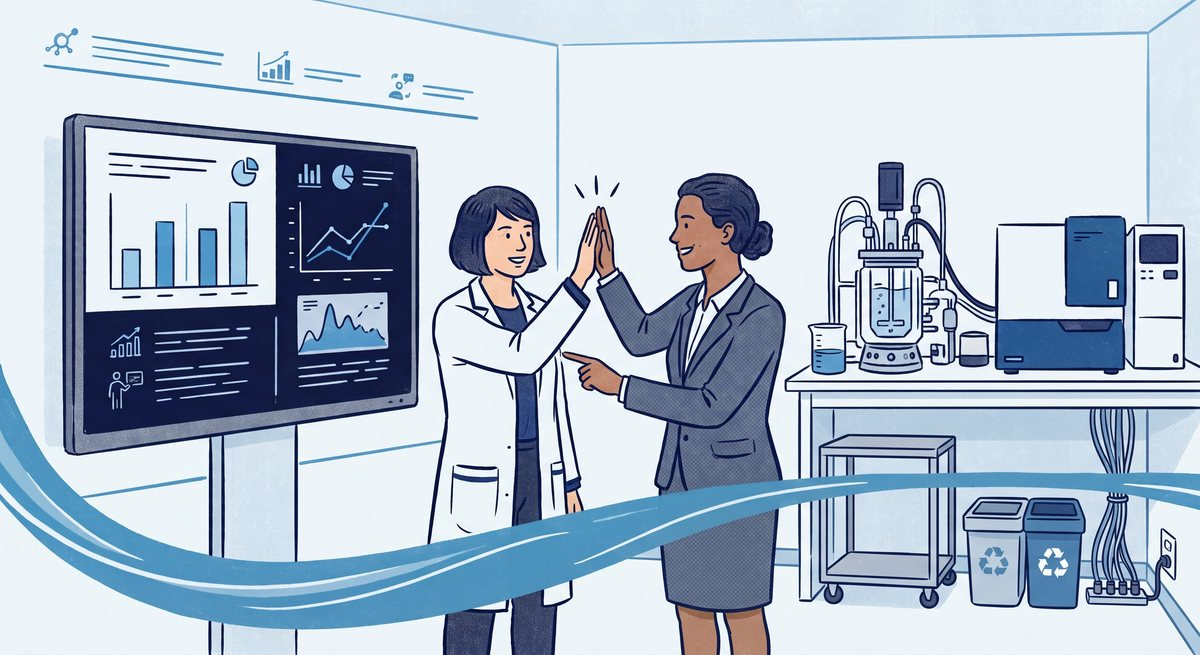
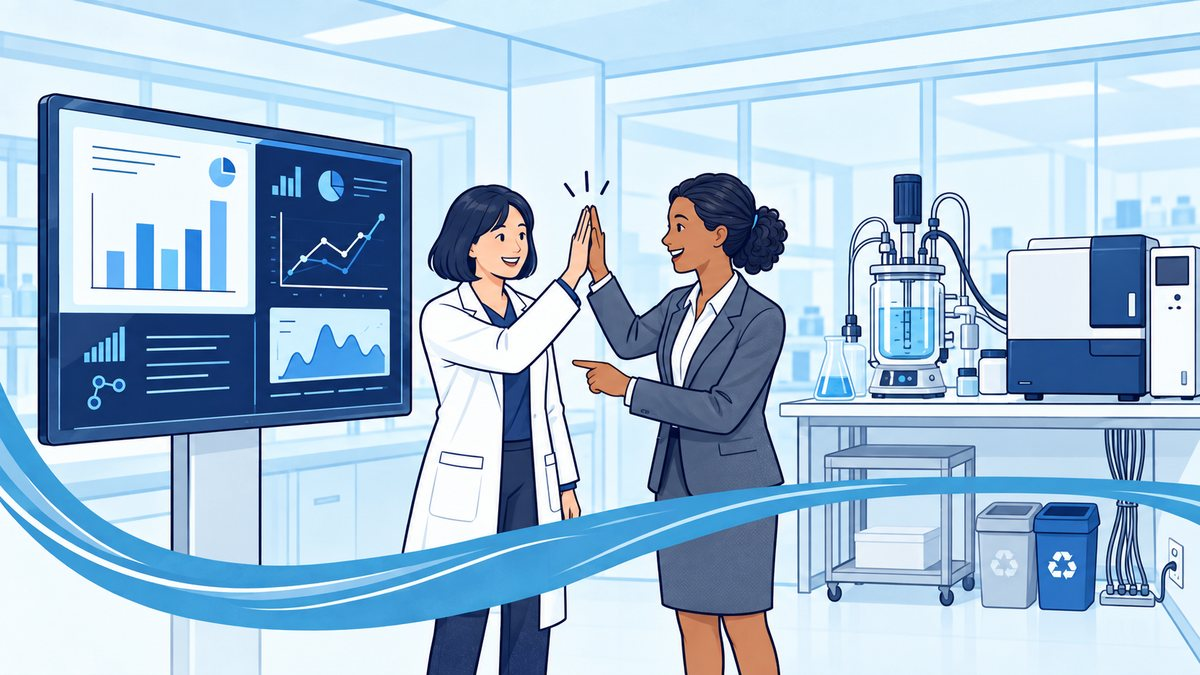
Update the "How to scope" illustration to the refreshed version
- New 1672 / 1200 px copies (228 KB / 142 KB) replace the previous art on
  the post hero, Blog featured card, og:image and Article schema image
- Featured card art now 16:9 to match; old 2000 px file removed

Claude-Session: https://claude.ai/code/session_01XBGKqKWyLuQfRuqXCo1Qr7

diff --git a/blog-how-to-scope-in-vivo-efficacy-study.html b/blog-how-to-scope-in-vivo-efficacy-study.html
@@ -8,7 +8,7 @@
 <meta property="og:title" content="How to Scope an In Vivo Efficacy Study | Alpha Preclinical">
 <meta property="og:description" content="Plan your first in vivo efficacy study: define the decision, pick the model and endpoints, size groups and set a timeline before you request a CRO quote.">
 <meta property="og:type" content="article">
-<meta property="og:image" content="assets/img/blog/scope-in-vivo-efficacy-study-hero-2000.jpg">
+<meta property="og:image" content="assets/img/blog/scope-in-vivo-efficacy-study-hero-1672.jpg">
 <link rel="icon" href="assets/img/logo-color.png">
 <link rel="preconnect" href="https://fonts.googleapis.com">
 <link rel="preconnect" href="https://fonts.gstatic.com" crossorigin>
@@ -182,7 +182,7 @@ td:first-child{font-weight:600;width:38%}
 @media (max-width:680px){.ap .post{padding:20px}.posts{gap:16px}}
 </style>
 <link rel="stylesheet" href="assets/css/site.css">
-<script type="application/ld+json">{"@context": "https://schema.org", "@type": "Article", "image": "assets/img/blog/scope-in-vivo-efficacy-study-hero-2000.jpg", "headline": "How to scope your first in vivo efficacy study", "author": {"@type": "Person", "name": "Barak Yahalom", "jobTitle": "CEO and Chief Scientific Officer"}, "reviewedBy": {"@type": "Person", "name": "Joan Flanagan"}, "publisher": {"@type": "Organization", "name": "Alpha Preclinical LLC"}, "keywords": "in vivo efficacy study", "citation": ["https://arriveguidelines.org/arrive-guidelines"]}</script>
+<script type="application/ld+json">{"@context": "https://schema.org", "@type": "Article", "image": "assets/img/blog/scope-in-vivo-efficacy-study-hero-1672.jpg", "headline": "How to scope your first in vivo efficacy study", "author": {"@type": "Person", "name": "Barak Yahalom", "jobTitle": "CEO and Chief Scientific Officer"}, "reviewedBy": {"@type": "Person", "name": "Joan Flanagan"}, "publisher": {"@type": "Organization", "name": "Alpha Preclinical LLC"}, "keywords": "in vivo efficacy study", "citation": ["https://arriveguidelines.org/arrive-guidelines"]}</script>
 </head>
 <body>
 <a class="skip" href="#main">Skip to content</a>
@@ -211,7 +211,7 @@ td:first-child{font-weight:600;width:38%}
     </div>
   </div>
   <figure class="hero-img infographic">
-    <img src="assets/img/blog/scope-in-vivo-efficacy-study-hero-1200.jpg" srcset="assets/img/blog/scope-in-vivo-efficacy-study-hero-1200.jpg 1200w, assets/img/blog/scope-in-vivo-efficacy-study-hero-2000.jpg 2000w" sizes="(max-width: 1080px) 100vw, 820px" width="2000" height="1091" fetchpriority="high" alt="Illustration: a scientist in a lab coat and a colleague in a business suit high-five in front of a screen of study charts, beside laboratory equipment.">
+    <img src="assets/img/blog/scope-in-vivo-efficacy-study-hero-1200.jpg" srcset="assets/img/blog/scope-in-vivo-efficacy-study-hero-1200.jpg 1200w, assets/img/blog/scope-in-vivo-efficacy-study-hero-1672.jpg 1672w" sizes="(max-width: 1080px) 100vw, 820px" width="1672" height="941" fetchpriority="high" alt="Illustration: a scientist in a lab coat and a colleague in a business suit high-five in front of a screen of study charts, beside laboratory equipment.">
     <figcaption>A well-scoped study gives scientists and decision-makers results they can act on.</figcaption>
   </figure>
 </div>

diff --git a/design/canvas/Blog.dc.html b/design/canvas/Blog.dc.html
@@ -92,7 +92,7 @@ body{margin:0}
 @media (max-width:1080px){.band{flex-direction:column;align-items:flex-start;padding:40px}}
 @media (max-width:680px){.band{padding:32px 24px}.band h2{font-size:30px}}
 .band{position:relative;overflow:hidden}.band>*{position:relative;z-index:1}.band>.band-lines{position:absolute;left:0;right:0;bottom:0;width:100%;height:48px;z-index:0;pointer-events:none}.band-lines path{fill:none;stroke:rgba(136,198,238,.3);stroke-width:1.5}
-.art.has-img{aspect-ratio:1200/655;background:#EEF5FB;border:1.5px solid var(--line)}
+.art.has-img{aspect-ratio:16/9;background:#EEF5FB;border:1.5px solid var(--line)}
 .art.has-img img{display:block;width:100%;height:100%;object-fit:cover;transition:transform .6s ease}
 /* cards: framed, image full-bleed on top, text inset, meta aligned to the bottom */
 .grid{gap:40px 32px}
@@ -140,7 +140,7 @@ body{margin:0}
 
     <sc-if value="{{showFeature}}" hint-placeholder-val="{{true}}">
       <a class="feature" href="BlogPost.dc.html">
-        <div class="art has-img"><img src="img/blog/scope-in-vivo-efficacy-study-hero-1200.jpg" width="1200" height="655" alt="" loading="eager"></div>
+        <div class="art has-img"><img src="img/blog/scope-in-vivo-efficacy-study-hero-1200.jpg" width="1200" height="675" alt="" loading="eager"></div>
         <div>
           <span class="tag">{{feature.topic}}</span>
           <h2>{{feature.title}}</h2>
@@ -185,7 +185,7 @@ body{margin:0}
 </footer>
 </div>
 </x-dc>
-<script type="text/x-dc" data-dc-script data-props='{"$preview":{"width":1440,"height":3303}}'>
+<script type="text/x-dc" data-dc-script data-props='{"$preview":{"width":1440,"height":3314}}'>
 class Component extends DCLogic {
   constructor(props) { super(props); this.state = { topic: 'All' }; }
   renderVals() {

diff --git a/blog.html b/blog.html
@@ -96,7 +96,7 @@ body{margin:0}
 @media (max-width:1080px){.band{flex-direction:column;align-items:flex-start;padding:40px}}
 @media (max-width:680px){.band{padding:32px 24px}.band h2{font-size:30px}}
 .band{position:relative;overflow:hidden}.band>*{position:relative;z-index:1}.band>.band-lines{position:absolute;left:0;right:0;bottom:0;width:100%;height:48px;z-index:0;pointer-events:none}.band-lines path{fill:none;stroke:rgba(136,198,238,.3);stroke-width:1.5}
-.art.has-img{aspect-ratio:1200/655;background:#EEF5FB;border:1.5px solid var(--line)}
+.art.has-img{aspect-ratio:16/9;background:#EEF5FB;border:1.5px solid var(--line)}
 .art.has-img img{display:block;width:100%;height:100%;object-fit:cover;transition:transform .6s ease}
 /* cards: framed, image full-bleed on top, text inset, meta aligned to the bottom */
 .grid{gap:40px 32px}
@@ -151,7 +151,7 @@ body{margin:0}
 
     
       <a class="feature" data-item="posts" data-topic="Study design" href="blog-how-to-scope-in-vivo-efficacy-study.html">
-        <div class="art has-img"><img src="assets/img/blog/scope-in-vivo-efficacy-study-hero-1200.jpg" width="1200" height="655" alt="" loading="eager"></div>
+        <div class="art has-img"><img src="assets/img/blog/scope-in-vivo-efficacy-study-hero-1200.jpg" width="1200" height="675" alt="" loading="eager"></div>
         <div>
           <span class="tag">Study design</span>
           <h2>How to scope your first in vivo efficacy study</h2>

diff --git a/tools/build_posts.py b/tools/build_posts.py
@@ -59,7 +59,7 @@ REVIEWER = {'Barak Yahalom, DVM': 'Joan Flanagan, PhD', 'Joan Flanagan, PhD': 'B
 # Per-post presentation details not in the drafts
 POSTS = {
     1: {'topic': 'Study design', 'img': ('assets/img/team-group.jpg', 'The Alpha Preclinical team outside the Worcester facility', 'The Alpha study team, Worcester, Massachusetts.'),
-        'infographic': {'src': 'assets/img/blog/scope-in-vivo-efficacy-study-hero', 'w': 2000, 'h': 1091, 'full_link': False,
+        'infographic': {'src': 'assets/img/blog/scope-in-vivo-efficacy-study-hero', 'w': 1672, 'h': 941, 'sizes': (1200, 1672), 'full_link': False,
                         'alt': 'Illustration: a scientist in a lab coat and a colleague in a business suit high-five in front of a screen of study charts, beside laboratory equipment.',
                         'caption': 'A well-scoped study gives scientists and decision-makers results they can act on.'},
         'summary': ['Name the decision the study informs before choosing anything else.', 'Confirm exposure with a short PK study, then match the model to your mechanism.', 'Set the primary endpoint, group size and controls together, and design for ARRIVE 2.0.'],
